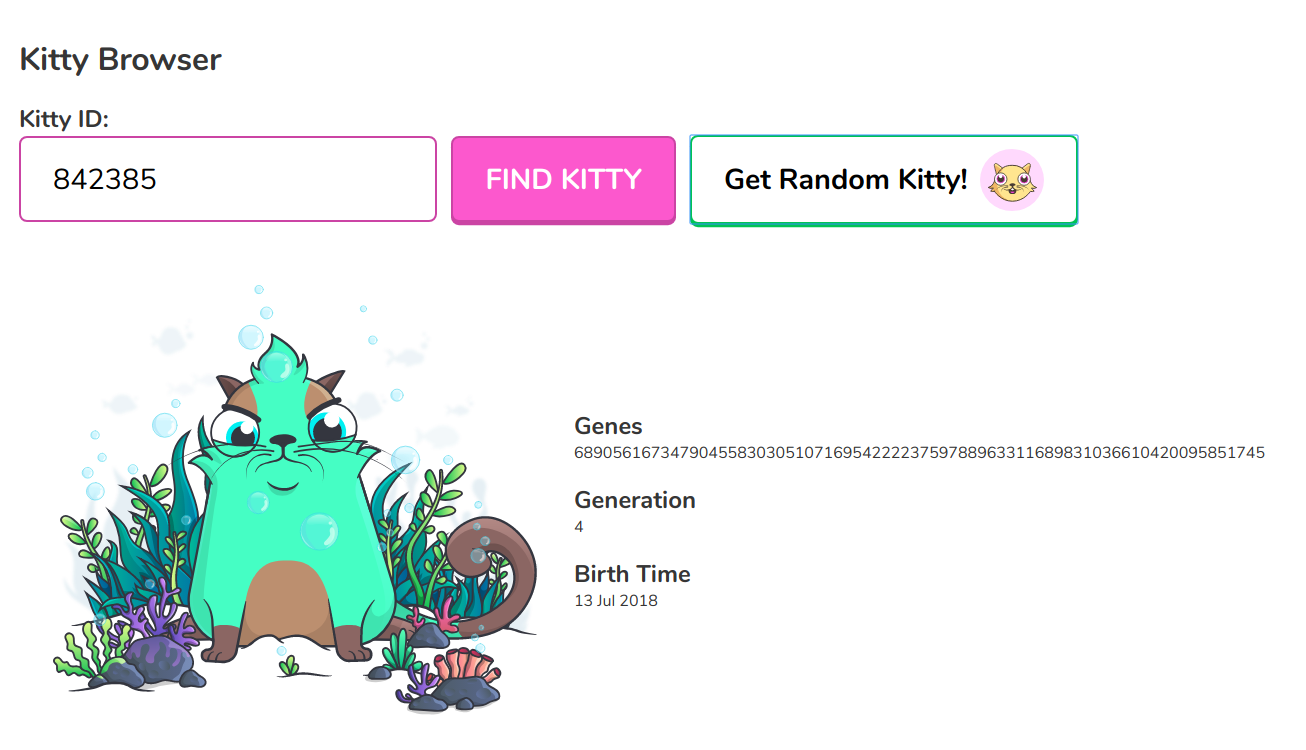
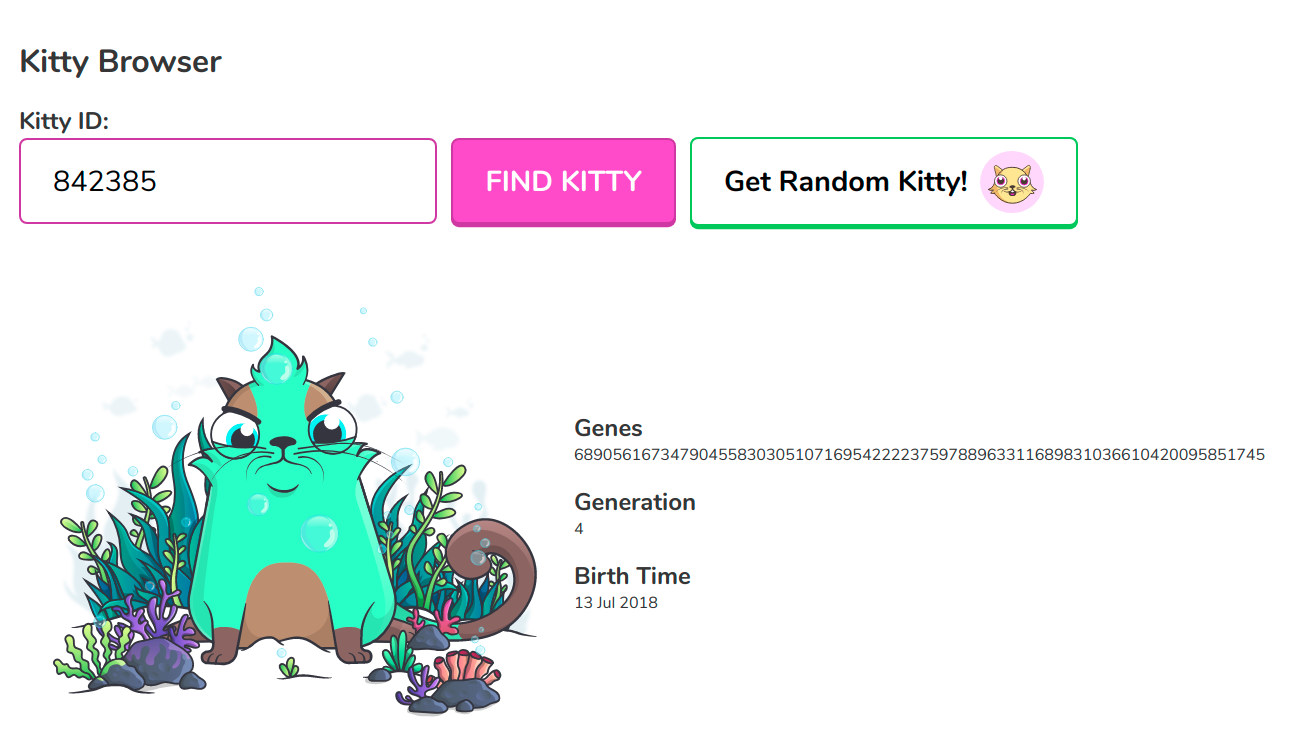
changed button styling and editted readme

diff --git a/src/App.css b/src/App.css
@@ -60,6 +60,7 @@ h2 {
   transition: all .2s cubic-bezier(.06,.67,.37,.99);
   text-decoration: none;
   margin-right: .5em;
+  outline: none;
 }
 
 .submit {
@@ -88,10 +89,15 @@ h2 {
     -webkit-transition: all .2s cubic-bezier(.06,.67,.37,.99);
   transition: all .2s cubic-bezier(.06,.67,.37,.99);
   text-decoration: none;
+  outline: none;
 }
 
 .submit:hover {
   box-shadow: 0 .4rem 0 0 #c23da8;
+}
+
+.submit:active {
+  box-shadow: 0 .2rem 0 0 #c23da8;
 }
 
 .rando-kitty {
@@ -107,10 +113,15 @@ h2 {
   border: 2px solid #2ac748;
   box-shadow: 0 .2rem 0 0 #2ac748;
   transition: all .2s cubic-bezier(.06,.67,.37,.99);
+  outline: none;
 }
 
 .rando-kitty:hover {
   box-shadow: 0 .4rem 0 0 #2ac748;
+}
+
+.rando-kitty:active {
+  box-shadow: 0 .2rem 0 0 #2ac748;
 }
 
 .rando-kitty:hover .Header-logo-icon {

diff --git a/src/components/Browser.jsx b/src/components/Browser.jsx
@@ -115,6 +115,7 @@ class Browser extends Component {
                 <span>{this.state.kitty_birth_time}</span>
             </div> : ""}
           </div>
+          
       </div>
     );
   }
